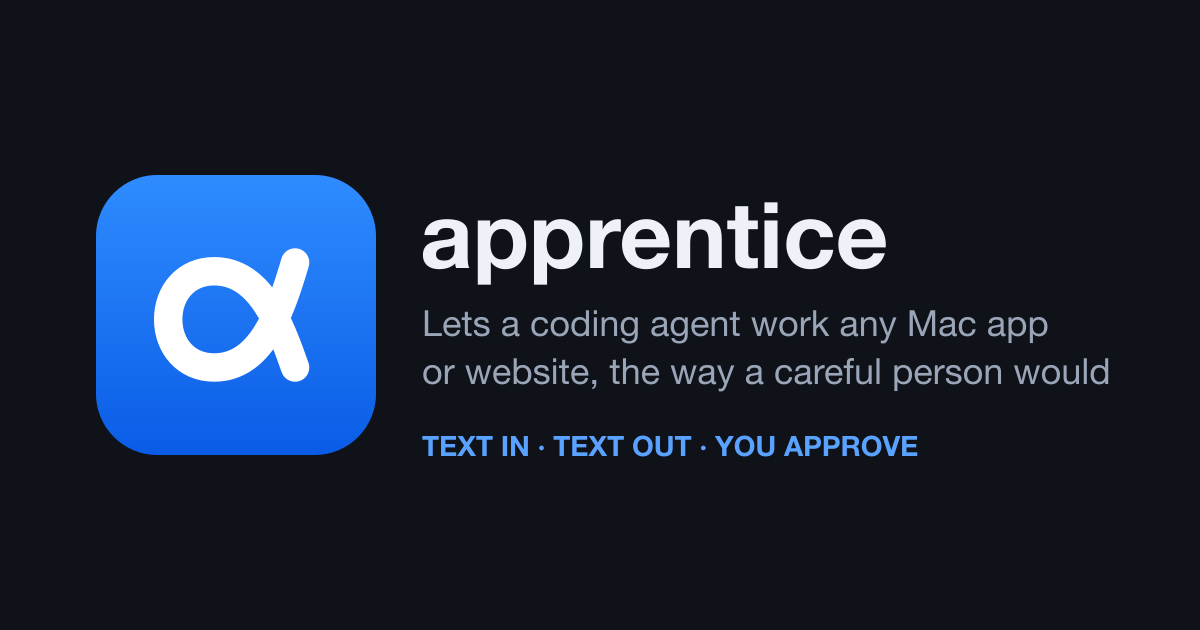
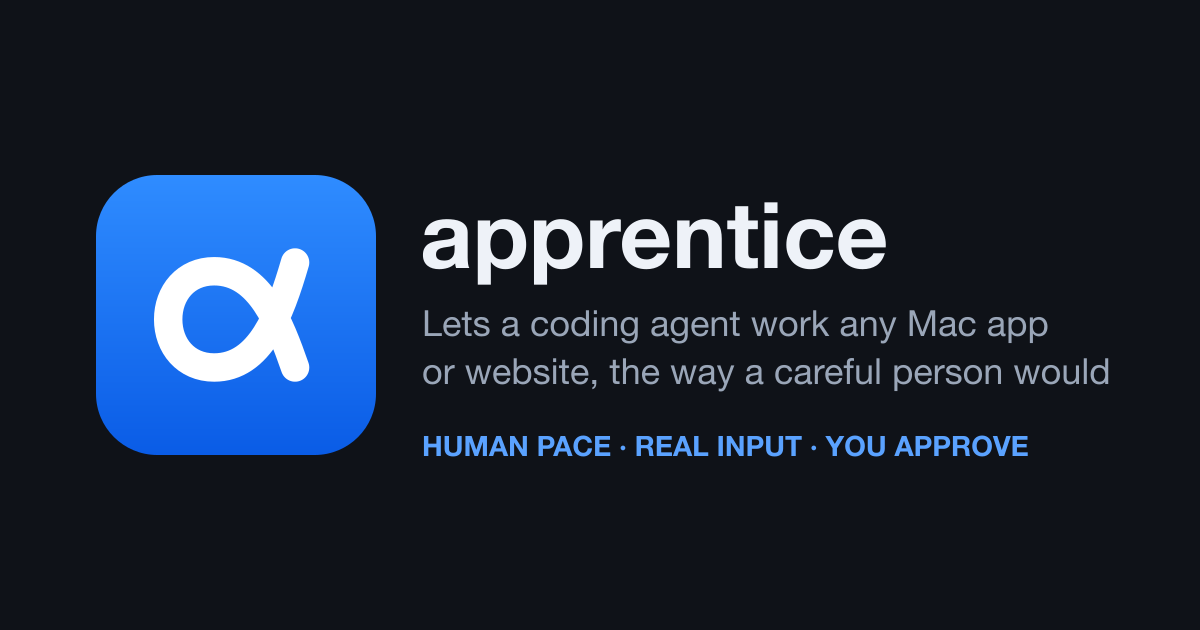
site: lead with acting like a person; any app or site, not just one
Claude-Session: https://claude.ai/code/session_01EqzDdWjVL4jMhk51xs9mSU

Changed region(s): [[0.3392, 0.6937, 0.8633, 0.7238]]

diff --git a/site/index.html b/site/index.html
@@ -178,12 +178,13 @@
 
     <div class="hero">
       <img class="logo" src="assets/icon.svg" alt="apprentice icon">
-      <div><span class="pill">macOS 14+ · Text in, text out · You approve</span></div>
+      <div><span class="pill">Human pace · Real cursor and keys · You approve</span></div>
       <h1>Let your agent use the Mac like a careful person</h1>
       <p class="lede">
-        apprentice lets a coding agent or a hosted model work any app on your Mac, or any website, for you.
-        It reads the screen as a short numbered list, moves the real cursor, presses real keys,
-        and proposes every change before it makes it.
+        apprentice lets a coding agent or a hosted model work any app on your Mac, or any website, for you,
+        and it behaves the way you would: the real cursor on a curved path, real keys at a typing rhythm,
+        pauses to look, and rests between bursts. It reads the screen as a short numbered list and proposes
+        every change before it makes it.
       </p>
       <div class="cta">
         <a class="btn primary" href="#install">Install</a>
@@ -222,12 +223,13 @@ nothing was done. approve: <span class="k">apprentice approve 7c2e</span> · den
       <h2>How it works</h2>
       <p class="sub">One Swift binary, CLI and daemon in one, with no package dependencies. The agent calls it from its own shell; the daemon does the reading and the careful acting.</p>
       <div class="grid">
+        <div class="card"><h3>Acts like a person</h3><p>Curved pointer paths with overshoot, a natural key rhythm with the odd correction, pauses before it acts and rests between bursts. Sites see a careful human pace, not a script hammering at them.</p></div>
         <div class="card"><h3>Reads text, not pixels</h3><p>The accessibility tree becomes a numbered list of what's on screen. A step costs tens of tokens, not a screenshot. <code>shot</code> and <code>ocr</code> are there for the rare page that hides.</p></div>
-        <div class="card"><h3>Real input only</h3><p>Every click, scroll and keystroke goes through the system's own input stream, with the cursor on a curved path at a human pace. Nothing is injected into pages.</p></div>
+        <div class="card"><h3>Real input only</h3><p>Every click, scroll and keystroke goes through the system's own input stream with the window in front. Nothing is injected into pages and nothing is pressed through accessibility.</p></div>
         <div class="card"><h3>Proposes, then acts</h3><p>Every command that changes something returns <code>approve?</code> and a token. Nothing happens until it's approved. Risky steps (send, delete, buy, passwords, settings) carry a ⚠.</p></div>
         <div class="card"><h3>Asks you</h3><p>For decisions that are yours, a little window opens at the top of the screen: free text, choices, or "point at it". When you're away, the question goes back to the chat.</p></div>
         <div class="card"><h3>Stops for you</h3><p>It waits until you've been idle. Touch a key or the mouse and it stops at once and leaves the cursor where you are. ctrl+opt+cmd+. is a kill switch.</p></div>
-        <div class="card"><h3>Site rules built in</h3><p>Per-site budgets, cooldowns, challenge hand-off and allowlists. Meta and TikTok are refused by default. They're part of the product, not add-ons.</p></div>
+        <div class="card"><h3>Site rules built in</h3><p>Per-site budgets, cooldowns and allowlists keep the account well inside what you could do by hand. A CAPTCHA or checkpoint goes to you, never around you. Sites whose terms forbid automation (Meta, TikTok) are refused.</p></div>
         <div class="card"><h3>Learns as it goes</h3><p>Notes about apps and sites live in the repo. <code>learn</code> turns a task that worked into a flow, and <code>do &lt;flow&gt;</code> reruns it with one approval for the whole plan.</p></div>
         <div class="card"><h3>Fixes and updates itself</h3><p>It runs from your own clone. Fixes are small commits that rebuild, self-test and restart. Upstream updates are rebased in, and a failed build keeps the old binary.</p></div>
         <div class="card"><h3>A Linux VM on the side</h3><p>A small VM runs Chromium and any Linux app with its own screen, cursor and keyboard, so the agent works while you keep working. One VM per job, run side by side.</p></div>
